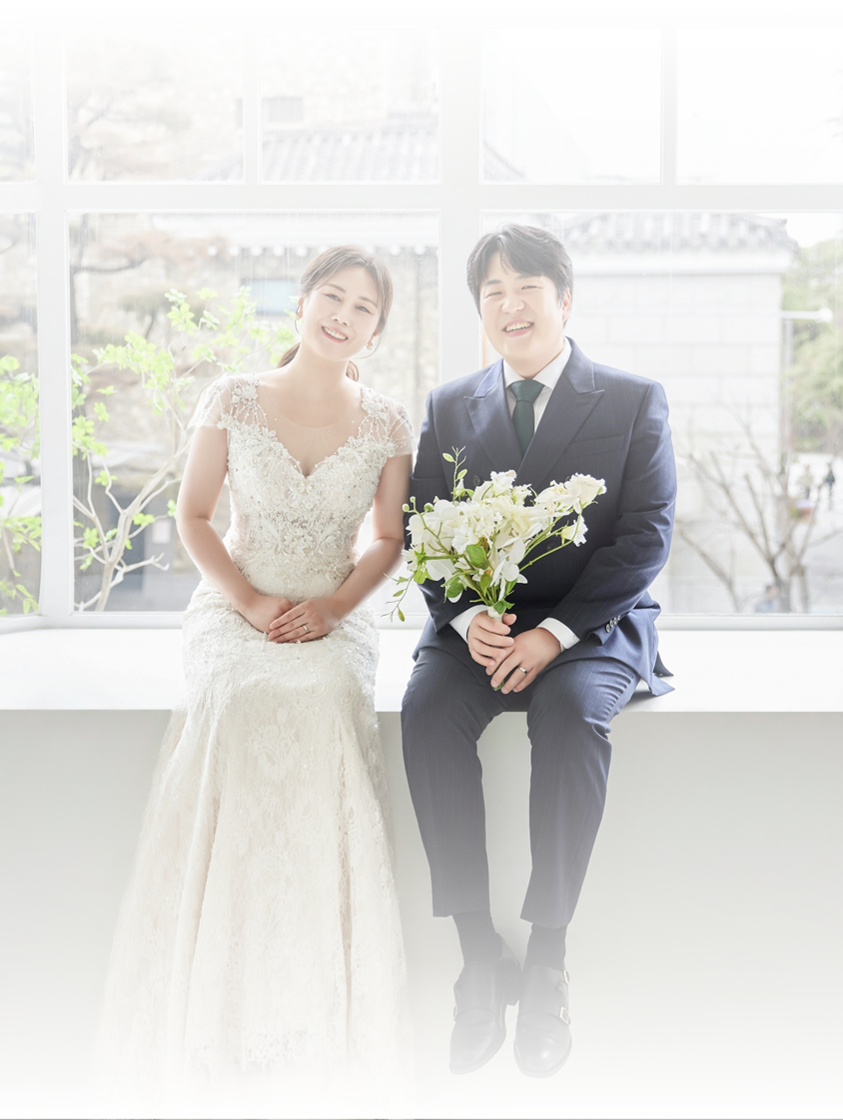
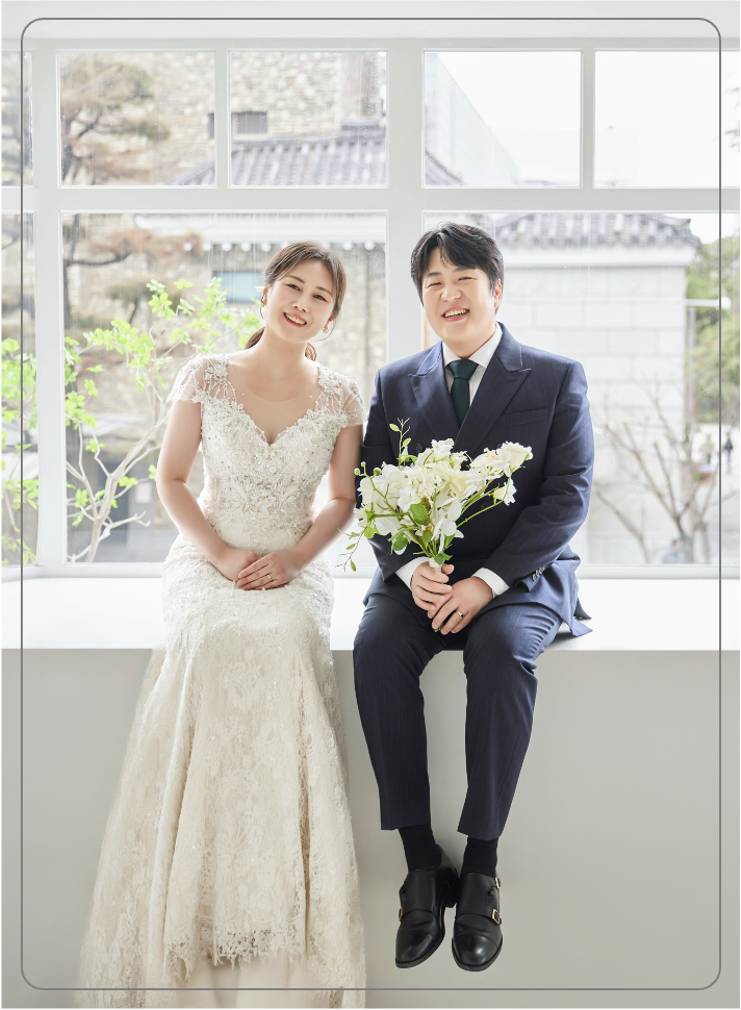
업데이트

diff --git a/index.html b/index.html
@@ -13,29 +13,24 @@
   </head>
   <body>
     <!-- ✨ 오버레이 내부 수정 ✨ -->
-    <div id="autoplay-overlay">
+    <!--div id="autoplay-overlay">
       <div class="overlay-content">
         <p>스크롤하여, 청첩장을 확인해주세요.</p>
-        <!-- 👇 기존 touch-icon span 삭제하고 아래 div 추가 👇 -->
         <div class="scroll-down-indicator">
           <span></span>
           <span></span>
           <span></span>
         </div>
       </div>
-    </div>
+    </div-->
     <!-- 오디오 컨트롤 위젯 컨테이너 (화면 고정용) -->
-    <div id="audio-widget-container">
+    <!--div id="audio-widget-container">
       <div class="audio-text-info">
-        <!-- 텍스트 정보 그룹핑 (선택 사항이지만 구조적으로 좋음) -->
         <span class="audio-label">BGM 재생🎵</span>
-        <!-- 상태 안내 문구 -->
         <span class="song-title">Part of Life - Infraction</span>
-        <!-- 곡 정보 -->
       </div>
       <div class="audio-control" id="audioControl"></div>
-      <!-- 재생/일시정지 버튼 (아이콘 사용) -->
-    </div>
+    </div-->
 
     <!-- 오디오 요소는 그대로 둡니다 -->
     <audio id="bgm" loop playsinline>
@@ -104,16 +99,16 @@
     <div class="fullscreen-image">
       <img src="picture/pic01.png" alt="청첩장 첫 사진" />
       <div id="falling-container"></div>
-      <div class="wedding-text">Wedding</div>
+      <!--div class="wedding-text">Wedding</div-->
       <div class="names-container">
         <div class="name-block">
-          <div class="name english">Hyebin</div>
-          <div class="name korean">한혜빈</div>
+          <!--div class="name english">Hyebin</div-->
+          <!--div class="name korean">한혜빈</div-->
         </div>
-        <div class="divider"></div>
+        <!--div class="divider"></div-->
         <div class="name-block">
-          <div class="name english">Hanyoung</div>
-          <div class="name korean">김한영</div>
+          <!--div class="name english">Hanyoung</div-->
+          <!--div class="name korean">김한영</div-->
         </div>
       </div>
       <div class="date-text" style="font-weight: 500;">2025. 06. 14. SAT.</div>

diff --git a/styles.css b/styles.css
@@ -311,7 +311,7 @@ footer {
   left: 50%;
   transform: translateX(-50%);
   font-weight: 400;
-  font-size: calc(1rem + 0.5vw);
+  font-size: calc(0.8rem + 0.4vw);
   color: #34695d;
   white-space: nowrap;
   /* 개행을 막기 위해 nowrap 설정 */
@@ -328,11 +328,11 @@ footer {
 }
 .place-text {
   position: absolute;
-  bottom: 7%;
+  bottom: 5%;
   left: 50%;
   transform: translateX(-50%);
   font-weight: 400;
-  font-size: calc(1rem + 0.5vw);
+  font-size: calc(0.8rem + 0.4vw);
   color: #34695d;
   white-space: nowrap;
   /* 개행을 막기 위해 nowrap 설정 */
